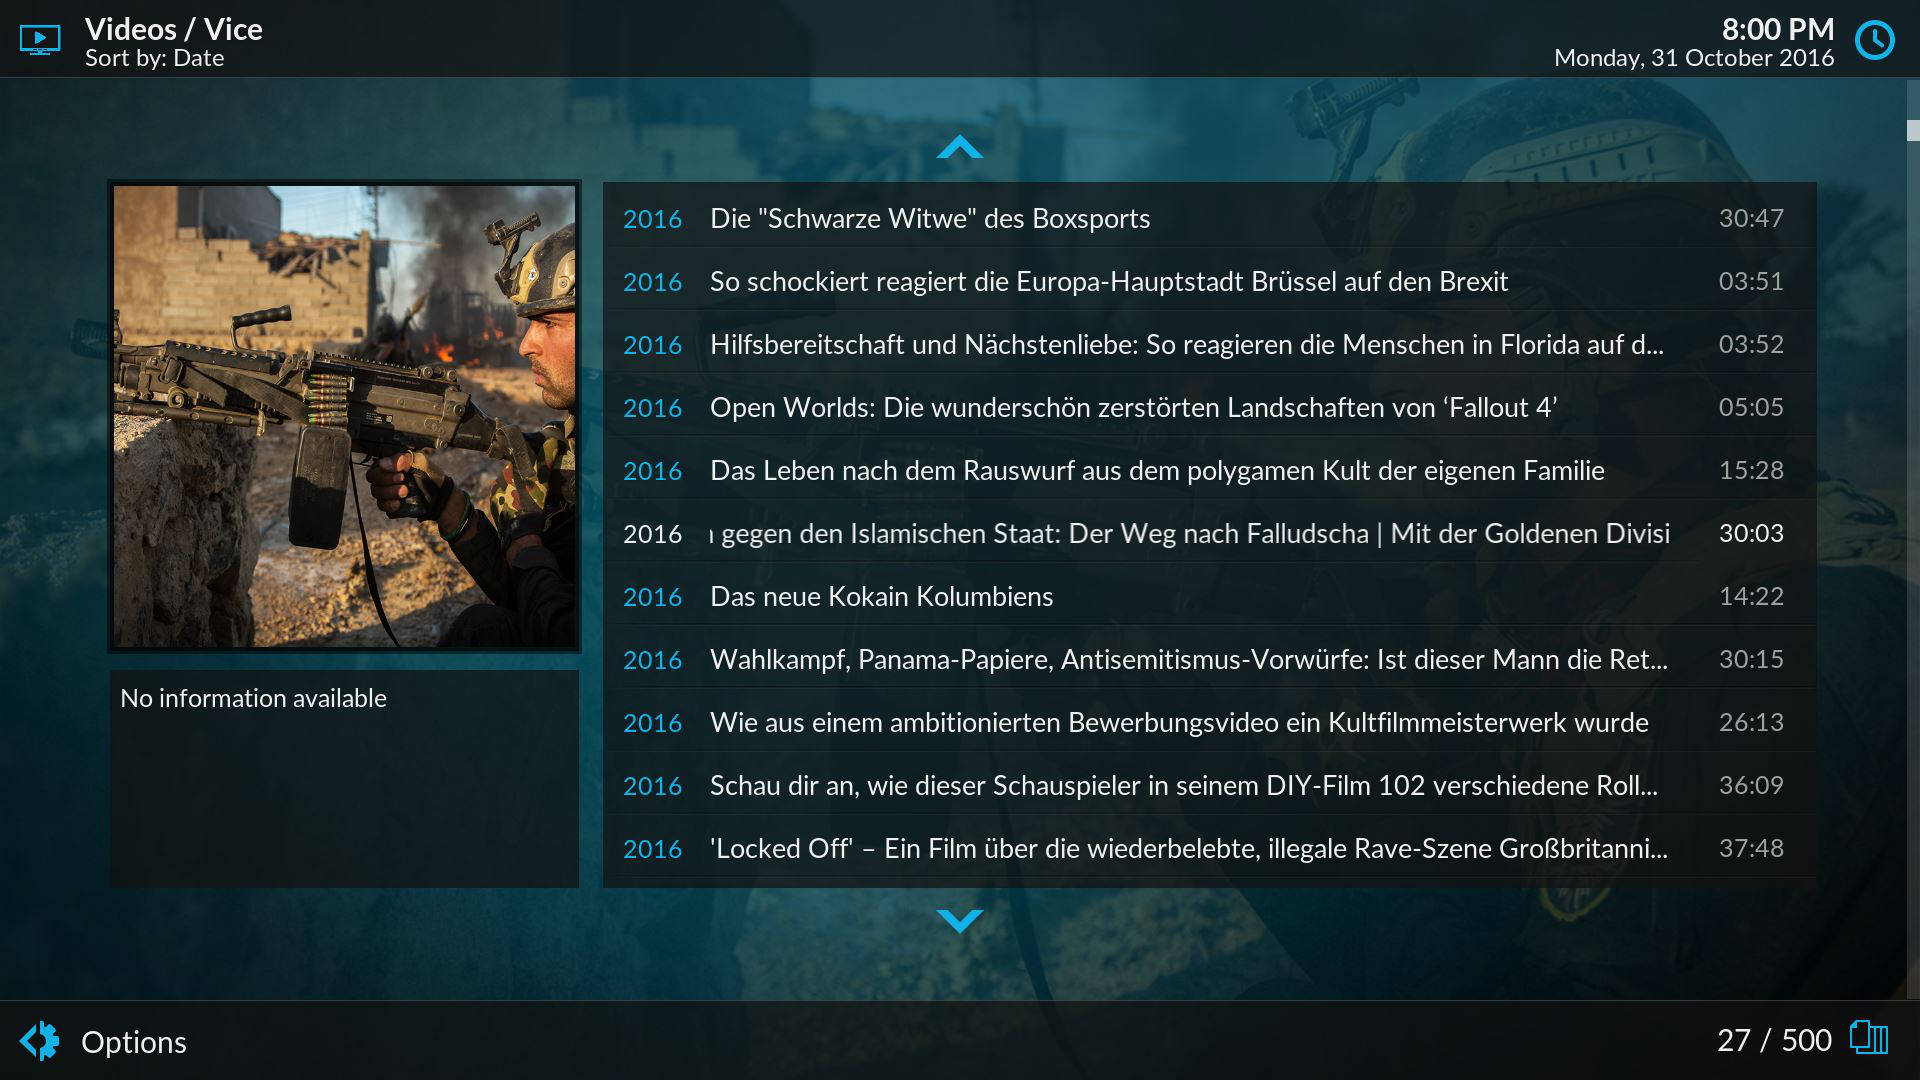
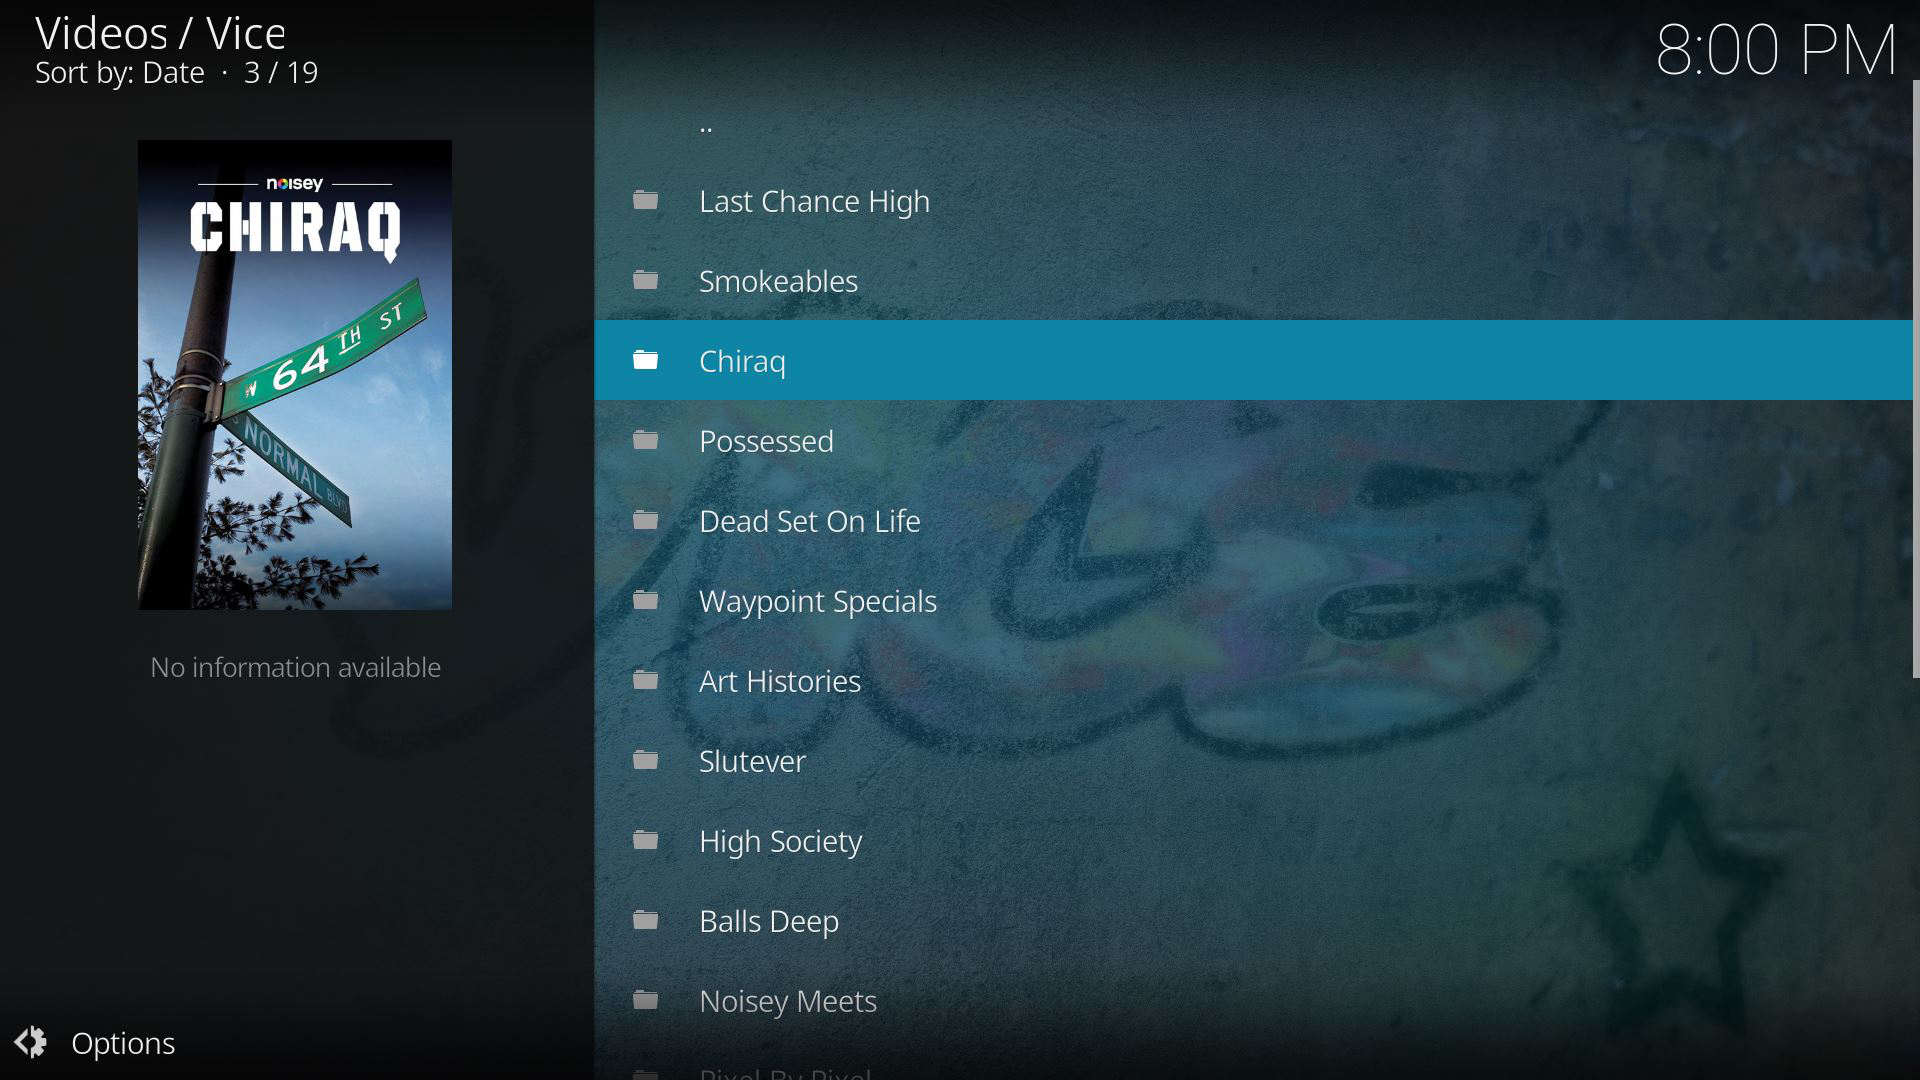
[plugin.video.vice] 1.2.0

diff --git a/plugin.video.vice/resources/lib/vice.py b/plugin.video.vice/resources/lib/vice.py
@@ -28,11 +28,11 @@ from lamlib import directory
 class indexer:
     def __init__(self):
         self.list = [] ; self.settings()
-        self.base_link = 'http://www.vice.com'
-        self.main_link = '/%s/videos'
-        self.latest_link = '/%s/ajax/getlatestvideos?limit=500'
-        self.episode_link = '/%s/ajax/getseriesepisodes?limit=500&series_id='
-        self.img_link = 'http://vice-images.vice.com/%s%s'
+
+        self.base_link = 'https://video.vice.com'
+        self.shows_link = '/%s/shows/'
+        self.episode_link = '/%s/playlists/%s/tab1?page=1'
+        self.hbo_link = '/en_us/playlists/5783df3f40bad38e1a87edbf/tab1?page=1'
         self.ooyala_link = 'http://player.ooyala.com/player/ipad/%s.m3u8'
         self.ooyala_subtitle_link = 'https://player.ooyala.com/nuplayer?embedCode=%s'
         self.uplynk_link = 'https://video.vice.com/en_us/preplay/%s?tvetoken=&rn=&exp=%s&sign=%s'
@@ -41,9 +41,16 @@ class indexer:
     def root(self):
         self.list = [
         {
+        'title': 32006,
+        'action': 'videos',
+        'url': self.hbo_link,
+        'icon': 'videos.png'
+        },
+
+        {
         'title': 32001,
         'action': 'videos',
-        'url': self.latest_link,
+        'url': self.shows_link % self.country,
         'icon': 'topvideos.png'
         },
 
@@ -72,7 +79,7 @@ class indexer:
         }
         ]
 
-        directory.add(self.list)
+        directory.add(self.list, content='videos')
         return self.list
 
 
@@ -86,12 +93,14 @@ class indexer:
             bookmark['delbookmark'] = i['url']
             i.update({'cm': [{'title': 32502, 'query': {'action': 'deleteBookmark', 'url': json.dumps(bookmark)}}]})
 
-        directory.add(self.list, content='files', mediatype='episode')
+        self.list = [i for i in self.list if self.base_link in i['url']]
+
+        directory.add(self.list, content='videos', mediatype='episode')
         return self.list
 
 
     def videos(self, url):
-        self.list = cache.get(self.item_list_1, 1, url, self.country)
+        self.list = cache.get(self.item_list_5, 1, url, self.country)
 
         if self.list == None: return
 
@@ -102,25 +111,27 @@ class indexer:
             bookmark['bookmark'] = i['url']
             i.update({'cm': [{'title': 32501, 'query': {'action': 'addBookmark', 'url': json.dumps(bookmark)}}]})
 
-        directory.add(self.list, content='files', mediatype='episode')
+        for i in self.list: i.update({'nextlabel': 32500, 'nextaction': 'videos'})
+
+        directory.add(self.list, content='videos', mediatype='episode')
         return self.list
 
 
     def countries(self):
         for i in self.countryDict: 
-            self.list.append({'title': i['title'], 'url': self.latest_link % i['code']})
+            self.list.append({'title': i['title'], 'url': self.shows_link % i['code']})
 
         for i in self.list: i.update({'action': 'videos'})
 
-        directory.add(self.list)
+        directory.add(self.list, content='videos')
         return self.list
 
 
     def topshows(self):
-        items = cache.get(self.item_list_2, 24, self.country)
+        items = cache.get(self.item_list_6, 24, self.country)
 
         if not items:
-            items = cache.get(self.item_list_4, 24, self.country)
+            items = cache.get(self.item_list_7, 24, self.country)
 
         self.list = items
 
@@ -128,15 +139,12 @@ class indexer:
 
         for i in self.list: i.update({'action': 'videos'})
 
-        directory.add(self.list, mediatype='tvshow')
+        directory.add(self.list, content='videos')
         return self.list
 
 
     def shows(self):
-        items = cache.get(self.item_list_3, 24, self.country)
-
-        if not items:
-            items = cache.get(self.item_list_4, 24, self.country)
+        items = cache.get(self.item_list_7, 24, self.country)
 
         self.list = items
         self.list = sorted(self.list, key=lambda k: k['title'])
@@ -145,7 +153,7 @@ class indexer:
 
         for i in self.list: i.update({'action': 'videos'})
 
-        directory.add(self.list, mediatype='tvshow')
+        directory.add(self.list, content='videos')
         return self.list
 
 
@@ -164,54 +172,64 @@ class indexer:
         control.resolve(int(sys.argv[1]), True, item)
 
 
-    def item_list_1(self, url, country):
+    def item_list_5(self, url, country):
         try:
-            if not '/ajax/' in url:
+            if '/shows/' in url:
                 url = urlparse.urljoin(self.base_link, url)
-
                 url = client.request(url)
-                url = re.findall('data-series-id\s*=\s*(?:"|\')(.+?)(?:"|\')', url)[0]
-                url = self.episode_link + url
+                url = re.findall('latest-link\s*=\s*(.+)', url)[0]
+                u = [i for i in urlparse.urlparse(url).path.strip('/').split('/')]
+                q = urlparse.urlparse(url).query
+                url = self.episode_link % (u[0], u[-1]) + '&%s' % q
+
+            elif '/show/' in url:
+                url = urlparse.urljoin(self.base_link, url)
+                url = client.request(url)
+                url = client.parseDOM(url, 'a', ret='href', attrs = {'class': 'cta'})[0]
+                u = [i for i in urlparse.urlparse(url).path.strip('/').split('/')]
+                url = self.episode_link % (u[0], u[-1])
+
 
             url = urlparse.urljoin(self.base_link, url)
 
-            if '%s' in url:
-                url = url % country
-
             result = client.request(url)
+            result = json.loads(result)
 
-            try:
-                result = json.loads(result)
-            except:
-                result = '%s}]}' % result.rsplit('}', 1)[0]
-                result = json.loads(result)
-
-            items = result['items']
+            items = result['data']
+            items = items.values()
         except:
-            return
+            pass
+
+        try:
+            next = result['next_page_url']
+            if next == None: raise Exception()
+            next = client.replaceHTMLCodes(next)
+            next = next.encode('utf-8')
+        except:
+            next = ''
 
         for item in items:
             try:
-                title = item['info']['title']
+                title = item['base']['display_title']
                 title = client.replaceHTMLCodes(title)
                 title = title.encode('utf-8')
 
-                try: tvshowtitle = item['series']['title']
+                try: tvshowtitle = item['show']['base']['display_title']
                 except: tvshowtitle = '0'
                 tvshowtitle = client.replaceHTMLCodes(tvshowtitle)
                 tvshowtitle = tvshowtitle.encode('utf-8')
 
-                url = item['url']
+                url = item['relative_url']
+                url = urlparse.urljoin(self.base_link, url)
+                url = client.replaceHTMLCodes(url)
                 url = url.encode('utf-8')
 
-                try: image = self.img_link % (item['info']['image_path'], item['info']['image_file_name'])
+                try: image = item['lede_image']['image_url']
                 except: image = '0'
+                image = client.replaceHTMLCodes(image)
                 image = image.encode('utf-8')
 
-                premiered = item['publish_date'].split()[0] if 'publish_date' in item else '0'
-                premiered = premiered.encode('utf-8')
-
-                d = str(item['video_duration_visual']) if 'video_duration_visual' in item else 0
+                d = str(item['video_duration']) if 'video_duration' in item else 0
                 d = re.findall('(\d+)', d)
 
                 duration = 0
@@ -221,73 +239,70 @@ class indexer:
                 except: pass
                 duration = str(duration)
 
-                plot = item['excerpt'] if 'excerpt' in item else '0'
+                try: plot = item['base']['body']
+                except: plot = '0'
                 plot = re.sub('<.+?>|</.+?>', '', plot)
+                plot = plot.replace('\n','')
                 plot = client.replaceHTMLCodes(plot)
                 plot = plot.encode('utf-8')
 
-                self.list.append({'title': title, 'tvshowtitle': tvshowtitle, 'url': url, 'image': image, 'fanart': image, 'premiered': premiered, 'duration': duration, 'plot': plot})
+                self.list.append({'title': title, 'tvshowtitle': tvshowtitle, 'url': url, 'image': image, 'fanart': image, 'duration': duration, 'plot': plot, 'next': next})
             except:
                 pass
 
         return self.list
 
 
-    def item_list_2(self, country):
+    def item_list_6(self, country):
         try:
-            url = urlparse.urljoin(self.base_link, self.main_link)
+            url = urlparse.urljoin(self.base_link, self.shows_link)
             url = url % country
 
             result = client.request(url)
 
-            items = client.parseDOM(result, 'div', attrs = {'class': '[^"]*featured-shows'})
+            items = client.parseDOM(result, 'body', attrs = {'class': 'shows-index'})[0]
 
-            items = client.parseDOM(items, 'article', attrs = {'class': 'item'})
+            items = client.parseDOM(items, 'article', attrs = {'class': '[^"]*show'})
         except:
             return
 
         for item in items:
             try:
-                title = client.parseDOM(item, 'div', attrs = {'class': 'title.+?'})[0]
+                title = client.parseDOM(item, 'h3', attrs = {'class': '.+?'})[0]
                 title = re.sub('<.+?>|</.+?>', '', title).strip()
                 title = client.replaceHTMLCodes(title)
                 title = title.encode('utf-8')
 
                 url = client.parseDOM(item, 'a', ret='href')[0]
-                url = re.findall('(?://.+?|)(/.+)', url)[0]
-                url = client.replaceHTMLCodes(url)
+                url = [i for i in url.strip('/').split('/')][-1]
+                url = self.episode_link % (country, url)
                 url = url.encode('utf-8')
 
                 image = client.parseDOM(item, 'img', ret='data.+?')[0]
-                image = re.sub('-crop_.+?\.', '.', image)
-                image = image.split('?')[0].replace('/crops/', '/meta/')
+                image = image.split('?')[0]
                 image = client.replaceHTMLCodes(image)
                 image = image.encode('utf-8')
 
-                plot = client.parseDOM(item, 'p', attrs = {'class': 'item-description'})[0]
-                plot = re.sub('<.+?>|</.+?>', '', plot).strip()
-                plot = client.replaceHTMLCodes(plot)
-                plot = plot.encode('utf-8')
-
-                self.list.append({'title': title, 'url': url, 'image': image, 'fanart': image, 'plot': plot})
+                self.list.append({'title': title, 'url': url, 'image': image})
             except:
                 pass
 
         return self.list
 
 
-    def item_list_3(self, country):
+    def item_list_7(self, country):
         try:
-            url = urlparse.urljoin(self.base_link, self.main_link)
+            url = urlparse.urljoin(self.base_link, self.shows_link)
             url = url % country
 
             result = client.request(url)
 
-            items = client.parseDOM(result, 'div', attrs = {'class': '[^"]*all-shows[^"]*'})
+            items = client.parseDOM(result, 'body', attrs = {'class': 'shows-index'})[0]
+            items = client.parseDOM(result, 'div', attrs = {'class': 'content'})[0]
 
-            items = client.parseDOM(items, 'li')
+            items = client.parseDOM(items, 'h3')
         except:
-            return
+            pass
 
         for item in items:
             try:
@@ -297,47 +312,7 @@ class indexer:
                 title = title.encode('utf-8')
 
                 url = client.parseDOM(item, 'a', ret='href')[0]
-                url = re.findall('(?://.+?|)(/.+)', url)[0]
                 url = client.replaceHTMLCodes(url)
-                url = url.encode('utf-8')
-
-                self.list.append({'title': title, 'url': url})
-            except:
-                pass
-
-        return self.list
-
-
-    def item_list_4(self, country):
-        try:
-            url = urlparse.urljoin(self.base_link, self.latest_link)
-            url = url % country
-
-            result = client.request(url)
-
-            try:
-                result = json.loads(result)
-            except:
-                result = '%s}]}' % result.rsplit('}', 1)[0]
-                result = json.loads(result)
-
-            items = result['items']
-
-            series = [(i['series_id'], i['series']) for i in items if 'series_id' in i and 'series' in i]
-
-            items = [i['series_id'] for i in items if 'series_id' in i]
-            items = [x for y,x in enumerate(items) if x not in items[:y]]
-        except:
-            pass
-
-        for item in items:
-            try:
-                title = [i for i in series if item == i[0]][0][1]['title']
-                title = re.sub('<.+?>|</.+?>', '', title).strip()
-                title = client.replaceHTMLCodes(title)
-                title = title.encode('utf-8')
-
-                url = self.episode_link + item
                 url = url.encode('utf-8')
 
                 self.list.append({'title': title, 'url': url})
